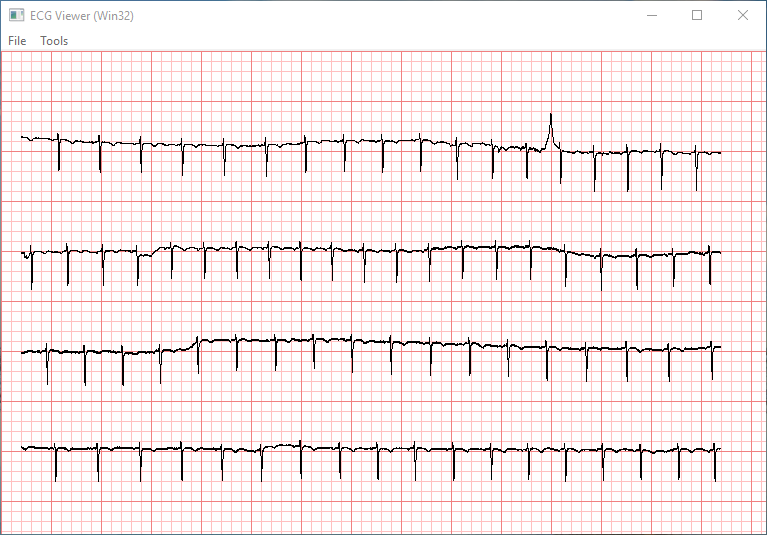
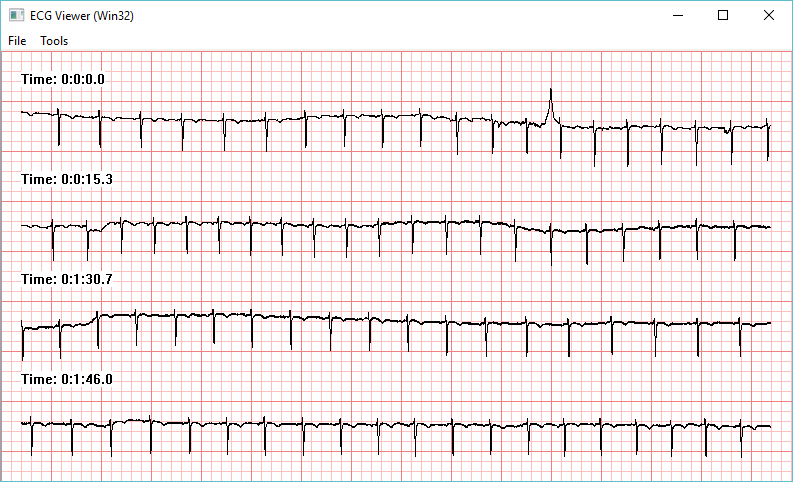
Improved time labels on ecgview, calculate number of tracks to fit in window.

diff --git a/win32app/ECGViewerWin32/ecgview.c b/win32app/ECGViewerWin32/ecgview.c
@@ -7,7 +7,7 @@ int sampleFrequency = 500;
 // Name:   DrawGrid
 // Desc:   Draws grid squares indicating time along horizontal and voltage in vertical
 // Param:  hDeviceContext - the Windows device context to draw to.
-void DrawGrid(HDC hDeviceContext, HWND hwnd){
+void DrawGrid(HDC hDeviceContext, HWND hWindow){
     
     //Setup drawing pens
     HPEN   hBigGridPen;
@@ -19,17 +19,17 @@ void DrawGrid(HDC hDeviceContext, HWND hwnd){
     hSmallGridPen = CreatePen(PS_SOLID, 1, RGB(255, 192, 192));
     hBigGridPen   = CreatePen(PS_SOLID, 1, RGB(240, 128, 128));
     
-	if (GetClientRect(hwnd, &rect)) {
+	if (GetClientRect(hWindow, &rect)) {
 		//Fill background
 		FillRect(hDeviceContext, &rect, hBgBrush);
 
 		//Small grid lines
 		SelectObject(hDeviceContext, hSmallGridPen);
-		DrawGridLines(hDeviceContext, hwnd, 10);
+		DrawGridLines(hDeviceContext, hWindow, 10);
 
 		//Big grid lines
 		SelectObject(hDeviceContext, hBigGridPen);
-		DrawGridLines(hDeviceContext, hwnd, 50);
+		DrawGridLines(hDeviceContext, hWindow, 50);
 	}
 }
  
@@ -74,52 +74,76 @@ void DrawSignal(HDC hDeviceContext, HWND hWindow){
 
 	HPEN  hSignalPen;
     POINT points[2];
-    RECT  rect;
+    RECT  windowRect;
+    RECT  textRect;
 
 	hSignalPen = CreatePen(PS_SOLID, 1, RGB(0, 0, 0));
     int xPos = padding_x;
-    int yOffset = 100;
-    int i = 0; int j = 0;
+    int bottomPadding = 0.5 * EcgBigSquarePx();
+    int yOffset = 1.5 * EcgBigSquarePx();
+    int iTrackPoint = 0; int iSample = 0;
     int pointsPerTrack = PointsPerTrack(hDeviceContext, hWindow);
+    int trackIndex = 0;
 
 	SelectObject(hDeviceContext, hSignalPen);
-	
-    //log_int("pointsPerTrack: ", (int) pointsPerTrack);
     
-    if(GetClientRect(hWindow, &rect)) {
-
-        int windowWidth = rect.right - rect.left;
-        int windowHeight = rect.bottom - rect.top;
+    if(GetClientRect(hWindow, &windowRect)) {
         
-        rect.left = padding_x;
-        rect.top = 30;
+        //How many signal tracks can fit in the window?
+        int width = windowRect.left - windowRect.right;
+        int windowHeight = windowRect.bottom - windowRect.top;
+        int trackHeight = 2 * EcgBigSquarePx();
+        int maxTracksInWindow = (windowHeight - bottomPadding) / trackHeight;
 
-        for (i = 0, j = 0; j < maxSamples - 1; i += 1, j += 1) {
+        //First time label starting position
+        textRect = windowRect;
+        textRect.left = padding_x;
+        textRect.top = 2 * EcgSmallSquarePx();
 
-			//Display the time at the beginning of each track
-            int trackTime = i * TrackDurationMs(hWindow);
-            wchar_t timeLabelBuff[256];
-            wsprintfW(timeLabelBuff, L"Time: %d", trackTime); //TODO: only do this at beginning of each track
-			DrawText(hDeviceContext, timeLabelBuff, -1, &rect, DT_SINGLELINE | DT_NOCLIP);
+        for (iTrackPoint = 0, iSample = 0; iSample < maxSamples - 1; iTrackPoint += 1, iSample += 1) {
+
+            if (iTrackPoint == 0) 
+                DrawTrackStartTime(hDeviceContext, hWindow, trackIndex, textRect);
 			
+            //Set the coordinates for start and end points of line
             points[0].x = xPos;
-            points[0].y = yOffset + (signalBuffer[j] * 0.1);
-            points[1].x = padding_x + ScaleSignalXToPixels(i + 1);
-            points[1].y = yOffset + (signalBuffer[j + 1] * 0.1);
+            points[0].y = yOffset + (signalBuffer[iSample] * 0.1);
+            points[1].x = padding_x + ScaleSignalXToPixels(iTrackPoint + 1);
+            points[1].y = yOffset + (signalBuffer[iSample + 1] * 0.1);
             
-            //Signal wave line
+            //Draw the line onto the device context
             Polyline(hDeviceContext, points, 2);
+
             xPos = points[1].x;
             
-            if (i == (pointsPerTrack - 1)) {
-                //log_int("j: ", j);
-                i = 0;
+            //Reached eng of track, begin new track
+            if (iTrackPoint == (pointsPerTrack - 1)) {
+                iTrackPoint = -1;
                 xPos = padding_x;
-                yOffset += 100;
-				rect.top = yOffset - 50;
+                yOffset += 2 * EcgBigSquarePx();
+                textRect.top += 2 * EcgBigSquarePx();
+                trackIndex++;
             }
+
+            if (trackIndex >= maxTracksInWindow) break;
         }
     }
+}
+
+// Name:    DrawTrackStartTime
+// Desc:    Display the time at the beginning of each track
+// Param:   hDeviceContext - Windows device context to draw to.
+// Param:   hWindow - handle to window containing device context.
+// Param:   trackIndex - the index of the signal track 0, 1, 2, 3...
+// Param:   positionRect - rectangle struct to draw text in position
+void DrawTrackStartTime(HDC hDeviceContext, HWND hWindow, int trackIndex, RECT positionRect) {
+    int trackTimeMs = trackIndex * TrackDurationMs(hWindow);
+    double seconds = (double)trackTimeMs / 1000;
+    double minutes = seconds / 60;
+    double hours = minutes / 60;
+    wchar_t timeLabelBuff[256];
+    swprintf(timeLabelBuff, 30, L"Time: %.0f:%.0f:%.1f", hours, minutes, seconds);
+    DrawText(hDeviceContext, timeLabelBuff, -1, &positionRect, DT_SINGLELINE | DT_NOCLIP);
 }
 
 // Name:    ScaleSignalXToPixels
@@ -171,6 +195,13 @@ int TrackWidthPx(HWND hWindow){
 // Returns: Width and height of big grid square in pixel units
 int EcgBigSquarePx(){
     return 50;
+}
+
+// Name:    EcgSmallSquarePx
+// Desc:    Get the width and height of small ECG grid square representing 1/5 second
+// Returns: Width and height of big small square in pixel units
+double EcgSmallSquarePx(){
+    return EcgBigSquarePx() / 5;
 }
 
 // Name:    TrackDurationMs

diff --git a/win32app/ECGViewerWin32/wndmain.c b/win32app/ECGViewerWin32/wndmain.c
@@ -36,64 +36,74 @@ LRESULT CALLBACK WndProc(HWND hwnd, UINT msg, WPARAM wParam, LPARAM lParam)
 
 	switch (msg)
 	{
-	case WM_CREATE:
-		AddMenus(hwnd);
-		break;
+	    case WM_CREATE:
+        {
+            AddMenus(hwnd);
+            break;
+        }
 
-	case WM_SIZE:
-		SaveWindowSize(hwnd);
-		wantDrawSignal = 0;
-		SetTimer(hwnd, 0, 150, PaintTimerProc);
-		break;
+        case WM_GETMINMAXINFO:
+        {
+            LPMINMAXINFO lpMMI = (LPMINMAXINFO)lParam;
+            lpMMI->ptMinTrackSize.x = 300;
+            lpMMI->ptMinTrackSize.y = 300;
+            break;
+        }
 
-	case WM_EXITSIZEMOVE:
-		wantDrawSignal = 1;
-		if (WindowSizeChanged(hwnd) >= 1) {
-			DoRedraw(hwnd);
-		}
-		break;
+	    case WM_SIZE:
+        {
+            SaveWindowSize(hwnd);
+            wantDrawSignal = 0;
+            SetTimer(hwnd, 0, 150, PaintTimerProc);
+            break;
+        }
 
-	case WM_PAINT:
-		OutputDebugString(TEXT("\nPAINT"));
-		hdc = BeginPaint(hwnd, &ps);
-		DrawGrid(hdc, hwnd);
-		if (signalLoaded == 1 && wantDrawSignal >= 1) {
-			DrawSignal(hdc, hwnd);
-			//Save window size to avoid unnecessary redraw
-			SaveWindowSize(hwnd);
-		}
-		EndPaint(hwnd, &ps);
-		
-		break;
+	    case WM_EXITSIZEMOVE:
+        {
+            wantDrawSignal = 1;
+            if (WindowSizeChanged(hwnd) >= 1) {
+                DoRedraw(hwnd);
+            }
+            break;
+        }
 
-	case WM_COMMAND:
-		switch (LOWORD(wParam)) {
-		case IDM_FILE_OPEN:
-			DoOpenFile(signalBuffer, maxSamples);
-			wantDrawSignal = 1;
-			signalLoaded = 1;
-			DoRedraw(hwnd);
-			break;
-		case IDM_FILE_QUIT:
-			SendMessage(hwnd, WM_CLOSE, 0, 0);
-			break;
-		case IDM_TOOLS_REFRESH:
-			InvalidateRect(hwnd, 0, 1);
-			DoRedraw(hwnd);
-			break;
-		}
-		break;
+	    case WM_PAINT:
+        {
+            //OutputDebugString(TEXT("\nPAINT"));
+            hdc = BeginPaint(hwnd, &ps);
+            DrawGrid(hdc, hwnd);
+            if (signalLoaded == 1 && wantDrawSignal >= 1) {
+                DrawSignal(hdc, hwnd);
+                //Save window size to avoid unnecessary redraw
+                SaveWindowSize(hwnd);
+            }
+            EndPaint(hwnd, &ps);
+            break;
+        }
 
-	case WM_CLOSE:
-		DestroyWindow(hwnd);
-		break;
+	    case WM_COMMAND:
+        {
+            switch (LOWORD(wParam)) {
+            case IDM_FILE_OPEN:
+                DoOpenFile(signalBuffer, maxSamples);
+                wantDrawSignal = 1;
+                signalLoaded = 1;
+                DoRedraw(hwnd);
+                break;
+            case IDM_FILE_QUIT:
+                SendMessage(hwnd, WM_CLOSE, 0, 0);
+                break;
+            case IDM_TOOLS_REFRESH:
+                InvalidateRect(hwnd, 0, 1);
+                DoRedraw(hwnd);
+                break;
+            }
+            break;
+        }
 
-	case WM_DESTROY:
-		PostQuitMessage(0);
-		break;
-
-	default:
-		break;
+	    case WM_CLOSE: { DestroyWindow(hwnd); break; }
+	    case WM_DESTROY: { PostQuitMessage(0); break; }
+	    default: break;
 	}
 	return DefWindowProc(hwnd, msg, wParam, lParam);
 }

diff --git a/win32app/ECGViewerWin32/ecgview.h b/win32app/ECGViewerWin32/ecgview.h
@@ -11,7 +11,10 @@ int sampleFrequency;
 void DrawGrid(HDC hdc, HWND hwnd);
 void DrawGridLines(HDC hdc, HWND hwnd, int interval);
 void DrawSignal(HDC hdc, HWND hwnd);
+void DrawTrackStartTime(HDC hDeviceContext, HWND hWindow, int trackIndex, RECT positionRect);
+
 int PointsPerTrack(HDC hdc, HWND hwnd);
 int TrackWidthPx(HWND hwnd);
 int EcgBigSquarePx();
+double EcgSmallSquarePx();
 int ScaleSignalXToPixels(int sampleIndex);
